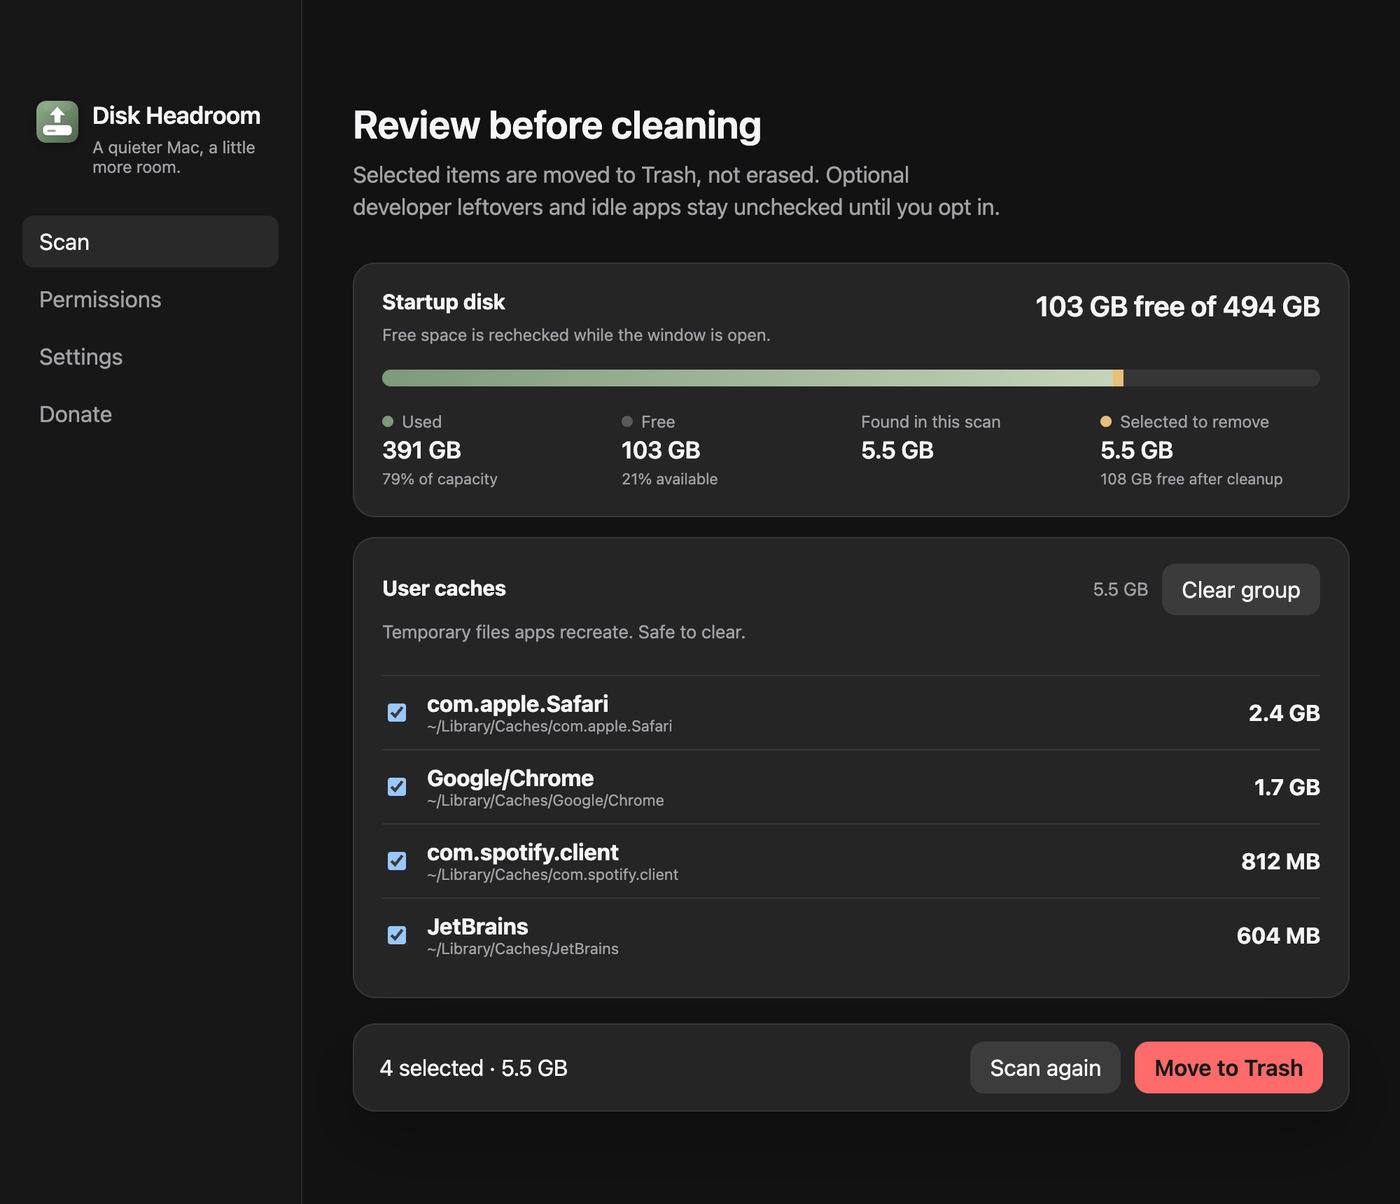
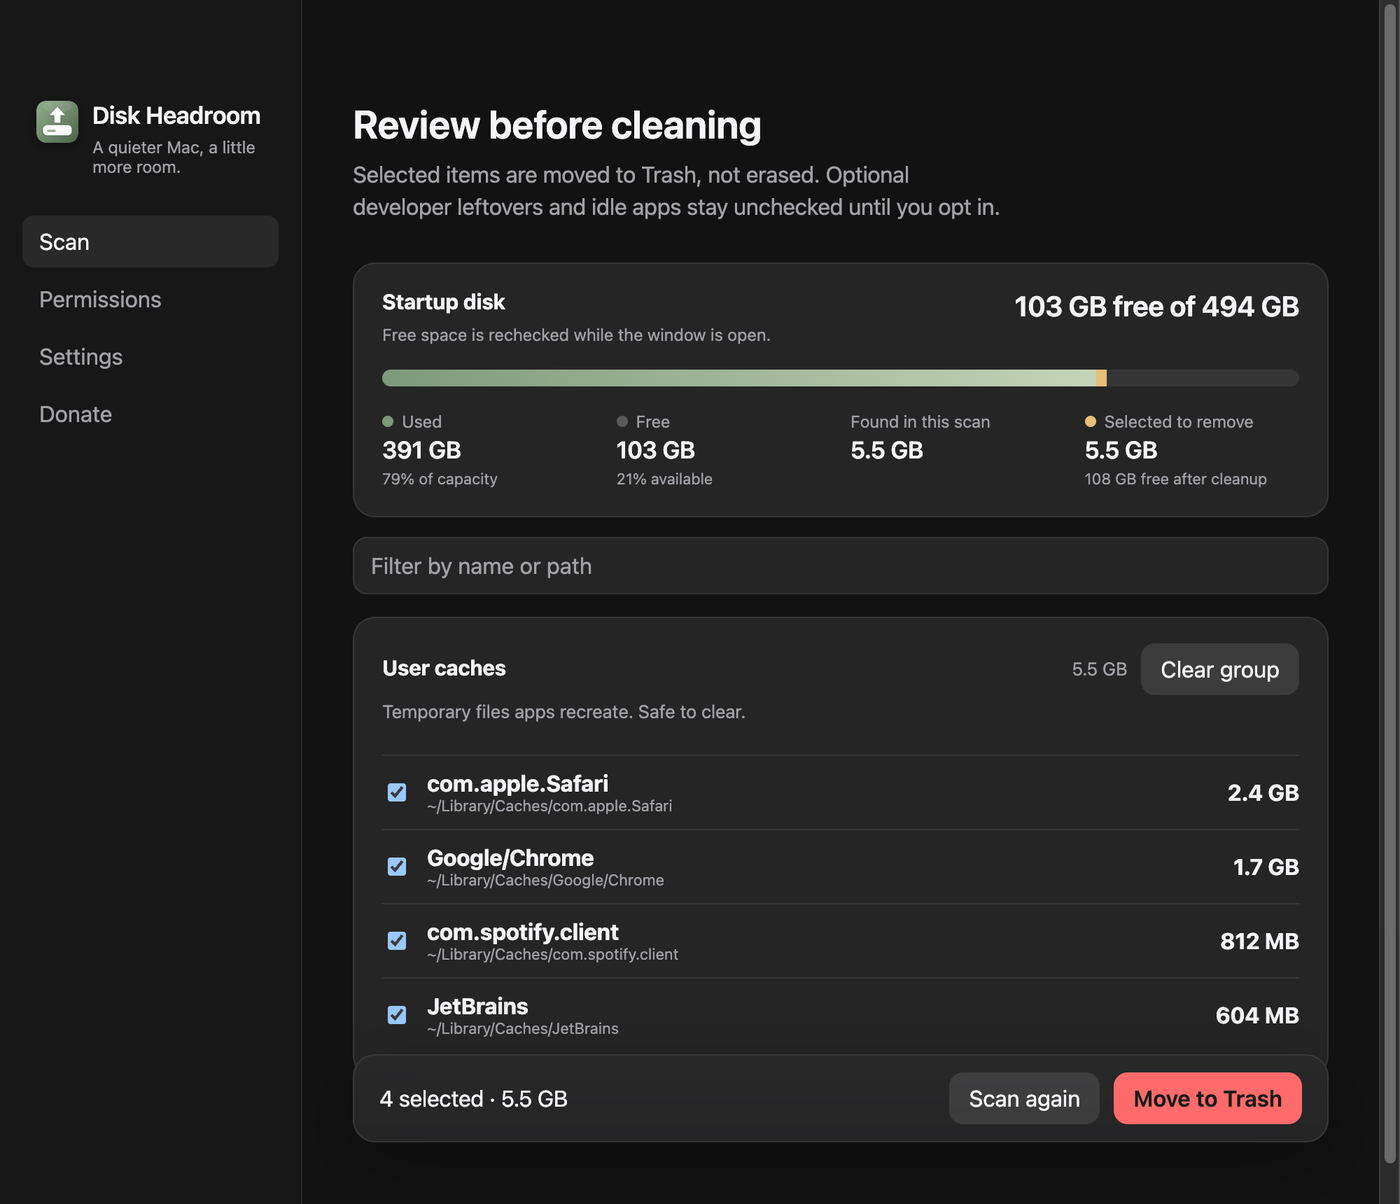
feat: filter scan results by name or path
Long lists were hard to review; search keeps grouping and only selects visible items.

diff --git a/src/renderer/src/App.tsx b/src/renderer/src/App.tsx
@@ -584,6 +584,13 @@ function DashboardView(props: {
   )
 }
 
+function itemMatchesFilter(item: ScanItem, query: string, t: Translator): boolean {
+  const needle = query.trim().toLowerCase()
+  if (!needle) return true
+  const name = (item.nameKey ? t(item.nameKey) : item.name).toLowerCase()
+  return name.includes(needle) || item.path.toLowerCase().includes(needle)
+}
+
 function ResultsView(props: {
   t: Translator
   locale: Locale
@@ -601,12 +608,16 @@ function ResultsView(props: {
   onClean: () => void
   onRescan: () => void
 }): JSX.Element {
+  const [query, setQuery] = useState('')
   const grouped = new Map<ScanItem['categoryId'], ScanItem[]>()
   for (const item of props.result.items) {
+    if (!itemMatchesFilter(item, query, props.t)) continue
     const list = grouped.get(item.categoryId) ?? []
     list.push(item)
     grouped.set(item.categoryId, list)
   }
+  const visibleCount = Array.from(grouped.values()).reduce((sum, items) => sum + items.length, 0)
+  const filtering = query.trim().length > 0
 
   return (
     <section>
@@ -632,7 +643,20 @@ function ResultsView(props: {
           <p className="muted">{props.t('results.trashHint')}</p>
         </div>
       )}
+      {props.result.items.length > 0 && (
+        <div className="results-filter">
+          <input
+            type="search"
+            value={query}
+            onChange={(event) => setQuery(event.target.value)}
+            placeholder={props.t('results.filterPlaceholder')}
+            aria-label={props.t('results.filterPlaceholder')}
+          />
+        </div>
+      )}
       {Array.from(grouped.entries()).map(([categoryId, items]) => {
+        // Select/clear group only toggles the rows currently on screen, so a
+        // filter cannot silently change hidden items in the same category.
         const ids = items.map((item) => item.id)
         const allOn = ids.every((id) => props.selected[id])
         const bytes = items.reduce((sum, item) => sum + item.bytes, 0)
@@ -690,6 +714,12 @@ function ResultsView(props: {
         <div className="card">
           <h3>{props.t('results.emptyTitle')}</h3>
           <p className="muted">{props.t('results.emptyHint')}</p>
+        </div>
+      )}
+      {filtering && visibleCount === 0 && props.result.items.length > 0 && (
+        <div className="card">
+          <h3>{props.t('results.filterEmptyTitle')}</h3>
+          <p className="muted">{props.t('results.filterEmptyHint')}</p>
         </div>
       )}
       <div className="footer-bar">

diff --git a/tests/App.test.tsx b/tests/App.test.tsx
@@ -168,6 +168,56 @@ describe('App', () => {
     await waitFor(() => expect(bridge.runScan).toHaveBeenCalledTimes(2))
   })
 
+  it('filters results by name or path and only selects visible group items', async () => {
+    const mixed = {
+      ...result,
+      items: [
+        result.items[0],
+        {
+          ...result.items[0],
+          id: 'c',
+          name: 'Cache C',
+          path: '/Users/test/Library/Caches/unique-token',
+          bytes: 1024,
+          selectedByDefault: true
+        },
+        result.items[1]
+      ]
+    }
+    window.diskheadroom = api({ runScan: vi.fn().mockResolvedValue(mixed) })
+    const user = userEvent.setup()
+    render(<App />)
+    await user.click(await screen.findByRole('button', { name: 'Scan this Mac' }))
+    expect(await screen.findByText('Cache A')).toBeInTheDocument()
+
+    const filter = screen.getByRole('searchbox', { name: 'Filter by name or path' })
+    await user.type(filter, 'old app')
+    expect(screen.queryByText('Cache A')).not.toBeInTheDocument()
+    expect(screen.getByText('Old App')).toBeInTheDocument()
+
+    await user.clear(filter)
+    expect(screen.getByText('Cache A')).toBeInTheDocument()
+    expect(screen.getByText('Cache C')).toBeInTheDocument()
+
+    await user.type(filter, 'UNIQUE-TOKEN')
+    expect(screen.queryByText('Cache A')).not.toBeInTheDocument()
+    expect(screen.getByText('Cache C')).toBeInTheDocument()
+    expect(screen.getByText(/2 selected/)).toBeInTheDocument()
+
+    await user.click(screen.getByRole('button', { name: 'Clear group' }))
+    expect(screen.getByText(/1 selected/)).toBeInTheDocument()
+
+    await user.clear(filter)
+    expect(screen.getByText('Cache A')).toBeInTheDocument()
+    expect(screen.getByText('Cache C')).toBeInTheDocument()
+    expect(screen.getByText(/1 selected/)).toBeInTheDocument()
+
+    await user.type(filter, 'zzz-missing')
+    expect(screen.getByText('Nothing matches that filter')).toBeInTheDocument()
+    expect(screen.queryByText('Cache A')).not.toBeInTheDocument()
+    expect(screen.queryByText('Old App')).not.toBeInTheDocument()
+  })
+
   it('shows Docker Desktop leftovers unchecked with a warning before trash', async () => {
     const dockerResult = {
       ...result,

diff --git a/src/renderer/src/styles.css b/src/renderer/src/styles.css
@@ -34,7 +34,8 @@ body {
 }
 
 button,
-select {
+select,
+input {
   font: inherit;
 }
 
@@ -341,6 +342,23 @@ select {
   justify-content: space-between;
   gap: 16px;
   align-items: center;
+}
+
+.results-filter {
+  margin: 0 0 16px;
+}
+
+.results-filter input {
+  width: 100%;
+  background: rgba(255, 255, 255, 0.08);
+  color: var(--text);
+  border: 1px solid var(--line);
+  border-radius: 10px;
+  padding: 10px 12px;
+}
+
+.results-filter input::placeholder {
+  color: var(--muted);
 }
 
 .category {

diff --git a/README.md b/README.md
@@ -37,7 +37,7 @@ If you need forensic deletion, secure erase, or Windows/Linux, this is not that 
 
 | Scan | Review before cleaning |
 | --- | --- |
-| <img src="docs/screenshots/scan.png" alt="Scan screen showing free space on the startup disk" width="440"> | <img src="docs/screenshots/results.png" alt="Scan results grouped by category with checkboxes, and a floating bar with the total selected and the Move to Trash button" width="440"> |
+| <img src="docs/screenshots/scan.png" alt="Scan screen showing free space on the startup disk" width="440"> | <img src="docs/screenshots/results.png" alt="Scan results with a name-or-path filter, grouped checkboxes, and a floating bar with the total selected and the Move to Trash button" width="440"> |
 
 | System access | Settings |
 | --- | --- |
